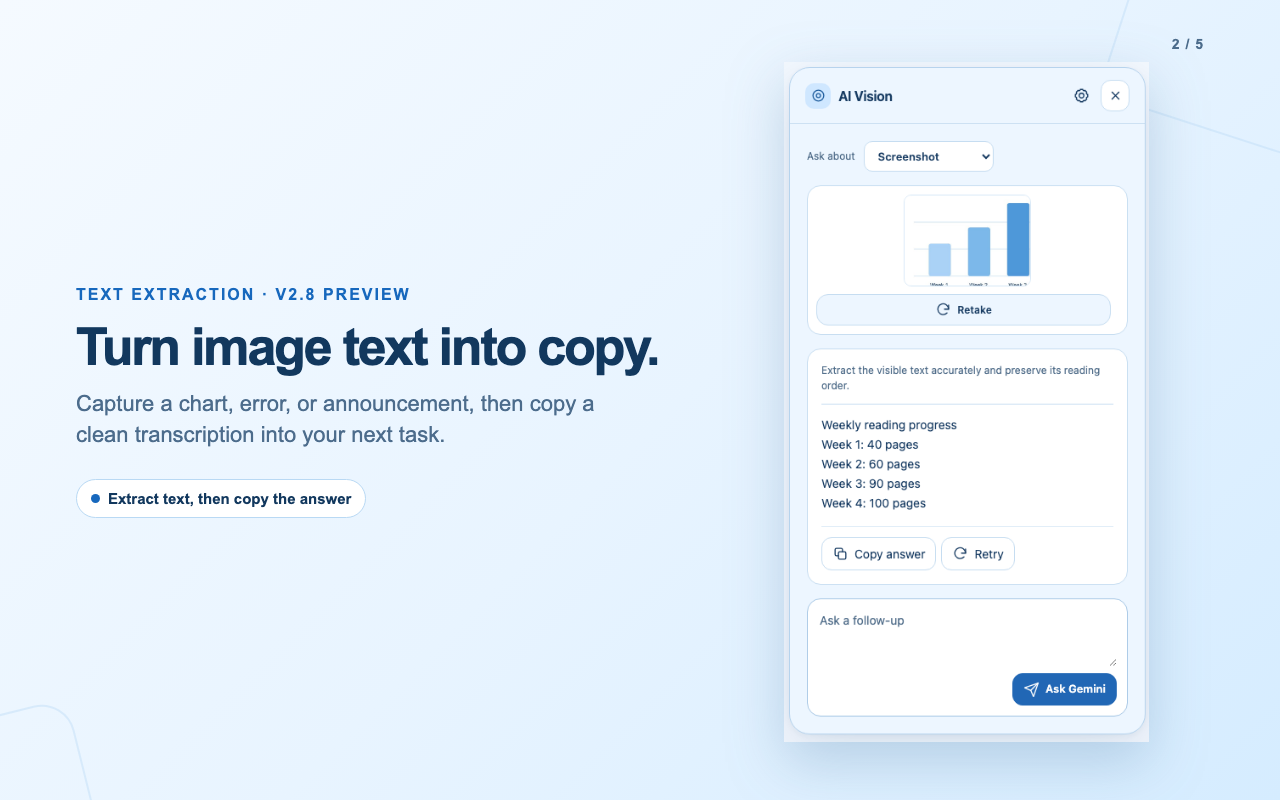
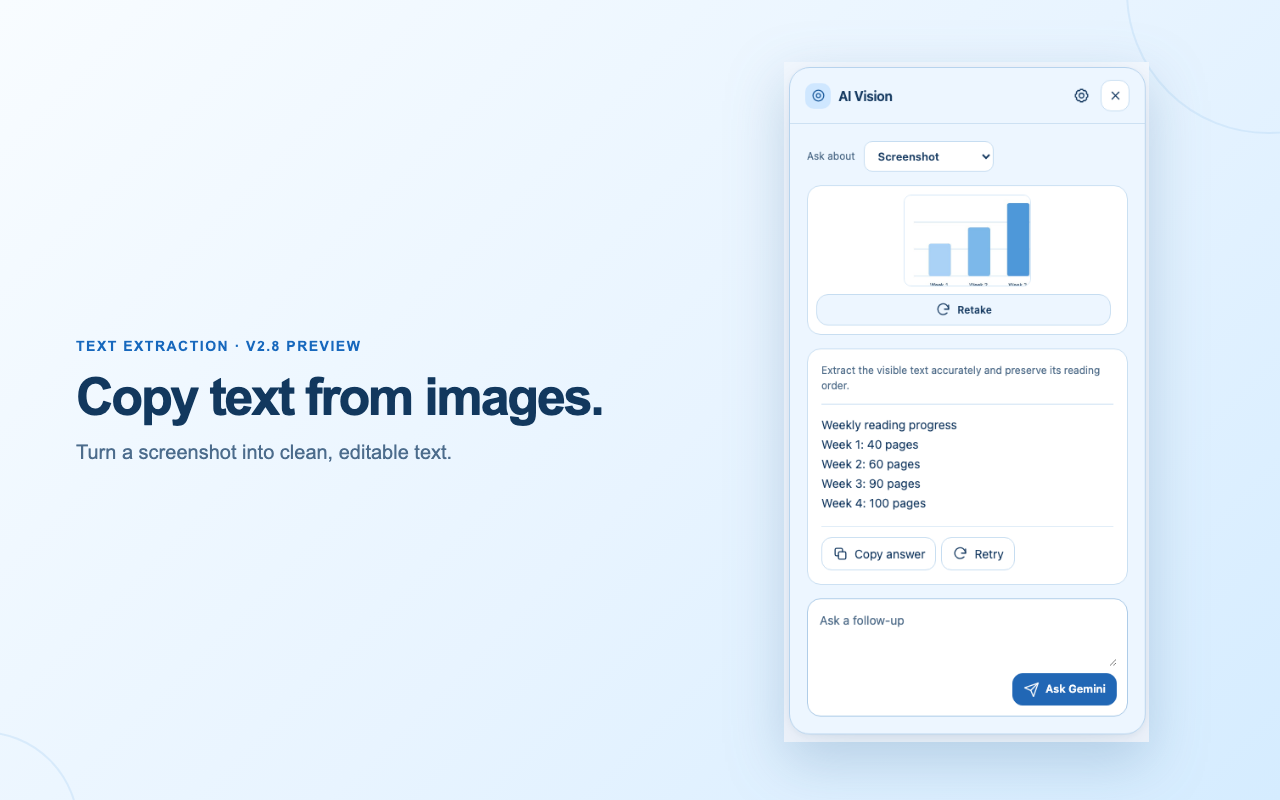
Refresh v2.8 visuals and Store SEO copy

Changed region(s): [[0.0625, 0.4062, 0.5312, 0.6562], [0.0625, 0.3438, 0.3125, 0.375], [0.9062, 0.0312, 0.9375, 0.0625]]

diff --git a/docs/index.html b/docs/index.html
@@ -4,7 +4,7 @@
   <meta charset="utf-8">
   <meta name="viewport" content="width=device-width, initial-scale=1">
   <title>AI Screenshot Assistant for Chrome | AI Vision</title>
-  <meta name="description" content="Explain screenshots, copy text from images, and ask follow-up questions without leaving Chrome. Uses Gemini with your own API key.">
+  <meta name="description" content="AI screenshot assistant for Chrome. Explain screenshots, extract text from images, and ask follow-up questions with your own Gemini API key.">
   <meta name="author" content="AI Vision project">
   <meta name="robots" content="index,follow,max-image-preview:large">
   <meta name="google-site-verification" content="YLyFwZK2cHcakG3nOrYRYw27DdFpeYfny3f_DKoIWP8">
@@ -14,7 +14,7 @@
   <meta property="og:type" content="website">
   <meta property="og:site_name" content="AI Vision">
   <meta property="og:title" content="AI Screenshot Assistant for Chrome | AI Vision">
-  <meta property="og:description" content="Explain screenshots, copy text from images, and ask follow-up questions in Chrome with your own Gemini API key.">
+  <meta property="og:description" content="AI screenshot assistant for Chrome. Explain screenshots, extract text from images, and ask follow-up questions with your own Gemini API key.">
   <meta property="og:url" content="https://stiwarilbj.github.io/AI_Vision/">
   <meta property="og:image" content="https://stiwarilbj.github.io/AI_Vision/assets/social-preview.png">
   <meta property="og:image:width" content="1200">
@@ -23,12 +23,12 @@
   <meta property="og:locale" content="en_US">
   <meta name="twitter:card" content="summary_large_image">
   <meta name="twitter:title" content="AI Screenshot Assistant for Chrome | AI Vision">
-  <meta name="twitter:description" content="Explain screenshots, copy text from images, and ask follow-up questions in Chrome with your own Gemini API key.">
+  <meta name="twitter:description" content="AI screenshot assistant for Chrome. Explain screenshots, extract text from images, and ask follow-up questions with your own Gemini API key.">
   <meta name="twitter:image" content="https://stiwarilbj.github.io/AI_Vision/assets/social-preview.png">
   <meta name="theme-color" content="#eef7ff">
   <script type="application/ld+json">
   {"@context":"https://schema.org","@graph":[
-    {"@type":"WebSite","@id":"https://stiwarilbj.github.io/AI_Vision/#website","name":"AI Vision","url":"https://stiwarilbj.github.io/AI_Vision/","description":"An AI screenshot assistant for Chrome that uses Gemini to explain screenshots, webpages, and supported tabs."},
+    {"@type":"WebSite","@id":"https://stiwarilbj.github.io/AI_Vision/#website","name":"AI Vision","url":"https://stiwarilbj.github.io/AI_Vision/","description":"An AI screenshot assistant for Chrome that uses Gemini to explain screenshots and extract text with a user-provided API key."},
     {"@type":"SoftwareApplication","@id":"https://stiwarilbj.github.io/AI_Vision/#software","name":"AI Vision for Chrome","description":"An AI screenshot assistant for explaining screenshots, extracting text, and asking Gemini follow-up questions with a user-provided API key.","url":"https://stiwarilbj.github.io/AI_Vision/","applicationCategory":"BrowserApplication","operatingSystem":"Google Chrome","softwareVersion":"2.5","releaseNotes":"The site also documents v2.8 GitHub-build previews while the public Chrome Web Store listing remains v2.5.","image":"https://stiwarilbj.github.io/AI_Vision/assets/social-preview.png","downloadUrl":"https://chromewebstore.google.com/detail/ai-vision-gemini-screensh/ghmmlbclopoakmjjbkkmoefjldgjimgk?authuser=0&hl=en","sameAs":"https://github.com/stiwarilbj/AI_Vision","isAccessibleForFree":true,"offers":{"@type":"Offer","price":"0","priceCurrency":"USD"},"featureList":["Explain a selected screenshot","Extract text from a screenshot","Summarize the current webpage","Compare supported Chrome tabs","Bring your own Gemini API key"]}
   ]}
   </script>
@@ -38,17 +38,17 @@
 <a class="skip-link" href="#main">Skip to content</a>
 <header class="site-header"><div class="wrap nav-row"><a class="brand" href="./"><img src="assets/store-icon.png" width="34" height="34" alt=""><span>AI Vision</span></a><nav class="nav-links" aria-label="Main navigation"><a href="#how-it-works">How it works</a><a href="guides/get-gemini-api-key.html">Get a key</a><a class="button button-small" href="https://chromewebstore.google.com/detail/ai-vision-gemini-screensh/ghmmlbclopoakmjjbkkmoefjldgjimgk?authuser=0&amp;hl=en">Add to Chrome</a></nav></div></header>
 <main id="main">
-  <section class="hero wrap" id="top" aria-labelledby="hero-title"><div class="hero-copy"><p class="eyebrow">AI SCREENSHOT ASSISTANT FOR CHROME · V2.8 PREVIEW</p><h1 id="hero-title">Your AI screenshot assistant for Chrome.</h1><p class="hero-lede">Explain screenshots, copy text from images, and ask follow-up questions without leaving Chrome. Uses Gemini with your own API key.</p><div class="hero-actions"><a class="button" href="https://chromewebstore.google.com/detail/ai-vision-gemini-screensh/ghmmlbclopoakmjjbkkmoefjldgjimgk?authuser=0&amp;hl=en">Add to Chrome <span aria-hidden="true">↗</span></a><a class="button button-secondary" href="#try-it">See it in action</a></div><p class="hero-note">Free extension · Gemini API key required · <a href="guides/get-gemini-api-key.html">Get your Gemini API key</a></p></div><figure class="hero-media"><a class="media-button" href="assets/previews/hero-showcase.png" data-lightbox="assets/previews/hero-showcase.png" aria-label="Enlarge the AI Vision screenshot-to-answer showcase"><picture><source media="(max-width:600px)" type="image/webp" srcset="assets/previews/extension-answer.webp"><source media="(max-width:600px)" type="image/png" srcset="assets/previews/extension-answer.png"><source type="image/webp" srcset="assets/previews/hero-showcase.webp"><source type="image/jpeg" srcset="assets/previews/hero-showcase.jpg"><source type="image/png" srcset="assets/previews/hero-showcase.png"><img src="assets/previews/hero-showcase.jpg" width="1120" height="620" fetchpriority="high" alt="AI Vision v2.8 preview showing a selected chart beside a clear Gemini answer and follow-up field"></picture></a><figcaption>v2.8 GitHub-build preview · The live Chrome Web Store listing currently shows v2.5. Controls may differ until the update is published. <a href="guides/ai-screenshot-assistant.html">See how screenshot explanations work →</a></figcaption></figure></section>
+  <section class="hero wrap" id="top" aria-labelledby="hero-title"><div class="hero-copy"><p class="eyebrow">AI SCREENSHOT ASSISTANT FOR CHROME · V2.8 PREVIEW</p><h1 id="hero-title">Your AI screenshot assistant for Chrome.</h1><p class="hero-lede">Explain screenshots, copy text from images, and ask follow-up questions in Chrome.</p><div class="hero-actions"><a class="button" href="https://chromewebstore.google.com/detail/ai-vision-gemini-screensh/ghmmlbclopoakmjjbkkmoefjldgjimgk?authuser=0&amp;hl=en">Add to Chrome <span aria-hidden="true">↗</span></a><a class="button button-secondary" href="#try-it">See it in action</a></div><p class="hero-note">Free extension · Your Gemini API key required · <a href="guides/get-gemini-api-key.html">Get your Gemini API key</a></p></div><figure class="hero-media"><a class="media-button" href="assets/previews/hero-showcase.png" data-lightbox="assets/previews/hero-showcase.png" aria-label="Enlarge the AI Vision screenshot-to-answer showcase"><picture><source media="(max-width:600px)" type="image/webp" srcset="assets/previews/extension-answer.webp"><source media="(max-width:600px)" type="image/png" srcset="assets/previews/extension-answer.png"><source type="image/webp" srcset="assets/previews/hero-showcase.webp"><source type="image/jpeg" srcset="assets/previews/hero-showcase.jpg"><source type="image/png" srcset="assets/previews/hero-showcase.png"><img src="assets/previews/hero-showcase.jpg" width="1120" height="620" fetchpriority="high" alt="AI Vision v2.8 preview showing a selected screenshot beside a readable Gemini answer and follow-up field"></picture></a><figcaption>v2.8 GitHub-build preview · The live Chrome Web Store listing currently shows v2.5. Controls may differ until the update is published. <a href="guides/ai-screenshot-assistant.html">See how screenshot explanations work →</a></figcaption></figure></section>
 
-  <section class="section section-white" id="try-it" aria-labelledby="try-title"><div class="wrap"><div class="section-heading"><h2 id="try-title">Select. Explain. Follow up.</h2><p>This interactive sample mirrors the default one-tap screenshot flow. It uses fictional content and an illustrative answer, so no key or API request is needed.</p></div><div class="demo-tabs" role="group" aria-label="Choose a sample workflow" hidden><button type="button" data-example="screenshot" aria-pressed="true">Screenshot</button><button type="button" data-example="page" aria-pressed="false">This page</button><button type="button" data-example="tabs" aria-pressed="false">Compare tabs</button></div>
+  <section class="section section-white" id="try-it" aria-labelledby="try-title"><div class="wrap"><div class="section-heading"><h2 id="try-title">Select. Explain. Follow up.</h2><p>Choose a sample to see how the screenshot assistant works. Each answer is fictional; the demo never sends an API request.</p></div><div class="demo-tabs" role="group" aria-label="Choose a sample workflow" hidden><button type="button" data-example="screenshot" aria-pressed="true">Screenshot</button><button type="button" data-example="page" aria-pressed="false">This page</button><button type="button" data-example="tabs" aria-pressed="false">Compare tabs</button></div>
     <article class="example" data-sample="screenshot"><div class="example-source"><p class="example-tag">Fictional screenshot · Reading club</p><h3>Pages read each week</h3><div class="sample-chart" role="img" aria-label="Week 1: 40 pages. Week 2: 60 pages. Week 3: 90 pages. Week 4: 100 pages."><span style="height:40%">40</span><span style="height:60%">60</span><span style="height:90%">90</span><span style="height:100%">100</span></div><div class="chart-labels" aria-hidden="true"><span>Week 1</span><span>Week 2</span><span>Week 3</span><span>Week 4</span></div></div><div class="example-answer"><p class="example-tag">One-tap explanation</p><blockquote>“Explain this screenshot.”</blockquote><p class="example-tag">Illustrative answer</p><p>Reading increased most from week 2 to week 3: from 60 to 90 pages, a gain of 30. Week 4 has the highest total, but the increase is smaller at 10 pages.</p><p class="example-follow-up">Follow up: “What would I need to know before calling this a trend?”</p><a class="text-link" href="guides/ai-screenshot-assistant.html">Learn to explain a screenshot →</a></div></article>
     <article class="example" data-sample="page"><div class="example-source"><p class="example-tag">Fictional article · Community library</p><h3>A quieter space after school</h3><p>The library is testing a quiet study hour from 4–5 pm on Tuesdays and Thursdays for six weeks. The ground floor stays open for conversation. Staff will collect visitor feedback before deciding whether to continue.</p></div><div class="example-answer"><p class="example-tag">You ask</p><blockquote>“What’s changing, and what’s still undecided?”</blockquote><p class="example-tag">Illustrative answer</p><p>Quiet study hours are being trialed twice a week for six weeks. The ground floor remains a social space. Whether the quiet hours become permanent depends on visitor feedback.</p><a class="text-link" href="guides/summarize-webpage-with-gemini.html">Learn to summarize a webpage →</a></div></article>
     <article class="example" data-sample="tabs"><div class="example-source"><p class="example-tag">Fictional product tabs</p><h3>Two bags. One decision.</h3><p><strong>Daylight 18:</strong> 18 L capacity, 600 g, padded laptop sleeve, no rain cover.</p><p><strong>Cloudpack 22:</strong> 22 L capacity, 850 g, rain cover included, laptop sleeve not specified.</p></div><div class="example-answer"><p class="example-tag">You ask</p><blockquote>“Which bag fits a light laptop commute?”</blockquote><p class="example-tag">Illustrative answer</p><p>Daylight 18 is 250 g lighter and explicitly includes a laptop sleeve. Cloudpack 22 adds 4 L of space and rain protection, but you’d need to verify laptop storage before choosing it.</p><a class="text-link" href="guides/compare-chrome-tabs-with-gemini.html">Learn to compare Chrome tabs →</a></div></article>
     <p class="sample-caption" id="sample-status" role="status">Fictional content and illustrative responses. No API call, key, or page access is used by this demo.</p><div class="sample-cta"><a class="button" href="https://chromewebstore.google.com/detail/ai-vision-gemini-screensh/ghmmlbclopoakmjjbkkmoefjldgjimgk?authuser=0&amp;hl=en">Try AI Vision free ↗</a><span>Gemini API key required · <a href="guides/get-gemini-api-key.html">Get set up first</a></span></div></div></section>
 
-  <section class="section" id="how-it-works" aria-labelledby="setup-title"><div class="wrap setup-layout"><div class="setup-lead"><h2 id="setup-title">Three small steps.<br>One clear answer.</h2><p>AI Vision is ready after a short Gemini key setup. You do not need an AI Vision account.</p><a class="text-link" href="guides/get-gemini-api-key.html">Follow the key setup guide →</a></div><ol class="setup-list"><li><h3>Add AI Vision to Chrome</h3><p>Install from the <a href="https://chromewebstore.google.com/detail/ai-vision-gemini-screensh/ghmmlbclopoakmjjbkkmoefjldgjimgk?authuser=0&amp;hl=en">Chrome Web Store</a>, then pin it from Chrome’s Extensions menu if you want it close at hand.</p></li><li><h3>Get and save your Gemini key</h3><p>In Google AI Studio, copy an existing key or choose <strong>Create API key</strong>. Open AI Vision Settings, paste the key, and choose Save &amp; check key.</p><a class="button button-secondary" href="https://aistudio.google.com/app/apikey" target="_blank" rel="noreferrer">Open Google AI Studio ↗</a></li><li><h3>Select an area and explain it</h3><p>Choose Screenshot, drag around the detail that matters, and press <strong>Explain screenshot</strong>. The optional automatic setting can send future screenshots immediately. Google controls API limits and any charges.</p></li></ol></div></section>
+  <section class="section" id="how-it-works" aria-labelledby="setup-title"><div class="wrap setup-layout"><div class="setup-lead"><h2 id="setup-title">Three steps to your first answer.</h2><p>Install AI Vision, save your Gemini key, and start with the screenshot in front of you.</p><a class="text-link" href="guides/get-gemini-api-key.html">Get your Gemini API key →</a></div><ol class="setup-list"><li><h3>Add AI Vision to Chrome</h3><p>Install from the <a href="https://chromewebstore.google.com/detail/ai-vision-gemini-screensh/ghmmlbclopoakmjjbkkmoefjldgjimgk?authuser=0&amp;hl=en">Chrome Web Store</a>.</p></li><li><h3>Get and save your Gemini key</h3><p>In Google AI Studio, create a key, paste it into Settings, and choose <strong>Save &amp; check key</strong>.</p><a class="button button-secondary" href="https://aistudio.google.com/app/apikey" target="_blank" rel="noreferrer">Open Google AI Studio ↗</a></li><li><h3>Select and explain</h3><p>Choose Screenshot, drag around the detail that matters, and press <strong>Explain screenshot</strong>. Google controls Gemini limits and pricing.</p></li></ol></div></section>
 
-  <section class="section section-white" id="guides" aria-labelledby="guides-title"><div class="wrap"><div class="section-heading"><h2 id="guides-title">Use the right context for the question.</h2><p>Start with a screenshot for a visual detail. Switch to a page or a group of tabs when the answer needs more context.</p></div><div class="guide-cards"><article class="guide-card"><h3>Explain what you see</h3><p>Charts, diagrams, text in images, and unfamiliar errors.</p><a class="text-link" href="guides/ai-screenshot-assistant.html">Screenshot guide →</a><a class="text-link" href="guides/copy-text-from-screenshot-chrome.html">Copy text from a screenshot →</a></article><article class="guide-card"><h3>Find the key points</h3><p>Turn a readable article into a summary you can check.</p><a class="text-link" href="guides/summarize-webpage-with-gemini.html">Webpage guide →</a></article><article class="guide-card"><h3>Compare the details</h3><p>Bring related sources together without losing their differences.</p><a class="text-link" href="guides/compare-chrome-tabs-with-gemini.html">Tab comparison guide →</a></article></div></div></section>
+  <section class="section section-white" id="guides" aria-labelledby="guides-title"><div class="wrap"><div class="section-heading"><h2 id="guides-title">Choose the context you need.</h2><p>Use a screenshot for a visual detail, a page for its key points, or tabs for a side-by-side comparison.</p></div><div class="guide-cards"><article class="guide-card"><h3>Explain or extract</h3><p>Understand charts, diagrams, errors, and text inside images.</p><a class="text-link" href="guides/ai-screenshot-assistant.html">Screenshot guide →</a><a class="text-link" href="guides/copy-text-from-screenshot-chrome.html">Copy text guide →</a></article><article class="guide-card"><h3>Summarize a page</h3><p>Turn a readable article into a summary you can check.</p><a class="text-link" href="guides/summarize-webpage-with-gemini.html">Webpage guide →</a></article><article class="guide-card"><h3>Compare tabs</h3><p>Bring related sources together and keep their differences visible.</p><a class="text-link" href="guides/compare-chrome-tabs-with-gemini.html">Tab comparison guide →</a></article></div></div></section>
 
   <section class="section" id="faq" aria-labelledby="faq-title"><div class="wrap faq-layout"><div><h2 id="faq-title">Simple to use.<br>Clear about the details.</h2><p class="privacy-note" id="privacy">Your key stays in Chrome. Requests go directly to Google. Optional browser tasks keep their approval and Stop controls.</p><a class="text-link" href="privacy.html">Read the privacy notice →</a></div><div class="faq-list"><details><summary>Do I need a Gemini API key?</summary><p>Yes. AI Vision uses your own key from Google AI Studio. Save it in the extension’s Settings. The website never asks you to paste a key.</p></details><details><summary>Is AI Vision free?</summary><p>The extension is free to install. Google controls Gemini API pricing, model availability, and usage limits. Check the limits and billing for your project in Google AI Studio.</p></details><details><summary>What gets sent to Google?</summary><p>Your question and the screenshot or page context needed for the request go directly to the Gemini API. Your key stays in Chrome’s local extension storage and is sent to Google to authenticate requests. There is no developer proxy or analytics.</p></details><details><summary>Does it work on every page?</summary><p>AI Vision works on supported webpages. Chrome internal pages, the Chrome Web Store, and other restricted pages cannot be analyzed. Compare tabs needs optional permission and reads up to 20 supported tabs in the current window.</p></details></div></div></section>
   <section class="wrap final-cta"><div><h2>Start with the screenshot in front of you.</h2><p>Install AI Vision, save your Gemini key, and get a clear answer with a follow-up ready.</p></div><a class="button" href="https://chromewebstore.google.com/detail/ai-vision-gemini-screensh/ghmmlbclopoakmjjbkkmoefjldgjimgk?authuser=0&amp;hl=en">Add to Chrome ↗</a></section>

diff --git a/tests/manual/store-artwork.html b/tests/manual/store-artwork.html
@@ -9,22 +9,18 @@
     * { box-sizing:border-box; }
     html,body { margin:0; width:100%; height:100%; overflow:hidden; }
     body { background:var(--baby); color:var(--navy); }
-    .art { width:100vw; height:100vh; min-width:440px; min-height:280px; position:relative; overflow:hidden; padding:62px 76px; background:linear-gradient(135deg,#f5faff 0%,var(--baby) 52%,#d5ecff 100%); }
-    .art::before,.art::after { content:""; position:absolute; border:2px solid #b9d9f466; border-radius:34px; transform:rotate(18deg); pointer-events:none; }
-    .art::before { width:220px; height:220px; right:-70px; top:-90px; }
-    .art::after { width:170px; height:170px; left:-84px; bottom:-90px; transform:rotate(-14deg); }
-    .kicker { font-size:16px; letter-spacing:2px; font-weight:700; color:var(--blue); text-transform:uppercase; }
+    .art { width:100vw; height:100vh; min-width:440px; min-height:280px; position:relative; overflow:hidden; padding:62px 76px; background:linear-gradient(135deg,#f8fcff 0%,var(--baby) 54%,#d5ecff 100%); }
+    .art::before { content:""; position:absolute; width:280px; height:280px; right:-130px; top:-150px; border:2px solid #b9d9f466; border-radius:50%; pointer-events:none; }
+    .art::after { content:""; position:absolute; width:190px; height:190px; left:-115px; bottom:-125px; border:2px solid #b9d9f466; border-radius:50%; pointer-events:none; }
+    .kicker { font-size:14px; letter-spacing:1.5px; font-weight:700; color:var(--blue); text-transform:uppercase; }
     h1 { margin:16px 0 14px; max-width:610px; font-size:52px; line-height:1.05; letter-spacing:-2.2px; }
-    .sub { margin:0; max-width:530px; color:var(--muted); font-size:22px; line-height:1.4; }
+    .sub { margin:0; max-width:530px; color:var(--muted); font-size:20px; line-height:1.4; }
     .split { display:grid; grid-template-columns:minmax(0,1fr) 475px; align-items:center; gap:54px; height:100%; position:relative; z-index:1; }
     .copy { align-self:center; }
-    .badge { display:inline-flex; margin-top:28px; align-items:center; gap:8px; padding:10px 14px; border:1px solid var(--line); border-radius:999px; background:#fff; color:var(--navy); font-size:15px; font-weight:700; }
-    .badge span { width:9px; height:9px; border-radius:50%; background:var(--blue); }
     .capture { width:475px; max-height:680px; object-fit:contain; object-position:center; filter:drop-shadow(0 20px 28px #3a6c9740); }
-    .slide-number { position:absolute; right:76px; top:36px; color:var(--muted); font-size:14px; font-weight:700; letter-spacing:1px; }
-    .hero-art { padding:48px 58px; }
-    .hero-art .split { grid-template-columns:minmax(0,1fr) minmax(280px,360px) minmax(260px,340px); gap:22px; }
-    .hero-art h1 { font-size:44px; max-width:520px; }
+    .slide-number { display:none; }
+    .hero-art { padding:36px 42px; }
+    .hero-art .split { grid-template-columns:minmax(260px,360px) minmax(320px,1fr); gap:34px; }
     .source-card { width:100%; padding:28px; background:#fff; border:1px solid var(--line); border-radius:24px; box-shadow:0 16px 30px #3a6c971c; }
     .source-card h2 { margin:10px 0 24px; font-size:27px; letter-spacing:-1px; }
     .chart { height:200px; display:flex; align-items:end; gap:18px; padding:20px 14px 0; border-bottom:2px solid #c6def2; background:repeating-linear-gradient(to top,transparent 0 43px,#d8e9f640 44px); }
@@ -32,12 +28,12 @@
     .bar b { position:absolute; top:-24px; left:0; right:0; text-align:center; font-size:14px; color:var(--navy); }
     .labels { display:flex; gap:18px; padding:9px 14px 0; color:var(--muted); font-size:12px; }
     .labels span { flex:1; text-align:center; }
-    .hero-art .capture { width:100%; max-height:520px; align-self:center; }
-    .hero-art .kicker { font-size:13px; }
-    .hero-art .sub { font-size:18px; }
-    .small-art{padding:28px 26px}.small-art .split{grid-template-columns:minmax(0,1fr) 145px;gap:14px}.small-art h1{font-size:29px;max-width:250px;margin:10px 0}.small-art .sub{font-size:15px;max-width:210px}.small-art .kicker{font-size:11px;letter-spacing:1.3px}.small-art .badge{font-size:11px;padding:7px 10px;margin-top:14px}.small-art .capture{width:145px;max-height:220px;align-self:end}.small-art .slide-number{display:none}
-    @media(max-width:800px){ .art{padding:40px 34px}.split{grid-template-columns:1fr;gap:24px}.capture{width:min(430px,100%);justify-self:center;max-height:480px}h1{font-size:42px}.sub{font-size:19px}.slide-number{right:34px}.hero-art .split{grid-template-columns:1fr}.hero-art .capture{width:min(360px,100%);justify-self:center} }
-    @media(max-width:600px){ .art{min-width:0;padding:28px}.kicker{font-size:12px}.art h1{font-size:34px}.sub{font-size:16px}.badge{margin-top:18px;font-size:12px}.slide-number{right:28px;top:18px}.source-card{padding:20px}.source-card h2{font-size:22px}.chart{height:150px}.hero-art{padding:24px}.hero-art h1{font-size:30px} }
+    .hero-art .capture { width:100%; max-height:540px; align-self:center; }
+    .hero-art .kicker { font-size:12px; }
+    .hero-art .source-card::after { content:"Selected screenshot → answer"; display:block; margin-top:20px; color:var(--muted); font-size:13px; font-weight:650; }
+    .small-art{padding:28px 26px}.small-art .split{grid-template-columns:minmax(0,1fr) 145px;gap:14px}.small-art h1{font-size:29px;max-width:250px;margin:10px 0}.small-art .sub{font-size:15px;max-width:210px}.small-art .kicker{font-size:11px;letter-spacing:1.3px}.small-art .capture{width:145px;max-height:220px;align-self:end}
+    @media(max-width:800px){ .art{padding:40px 34px}.split{grid-template-columns:1fr;gap:24px}.capture{width:min(430px,100%);justify-self:center;max-height:480px}h1{font-size:42px}.sub{font-size:19px}.hero-art .split{grid-template-columns:1fr}.hero-art .capture{width:min(360px,100%);justify-self:center} }
+    @media(max-width:600px){ .art{min-width:0;padding:28px}.kicker{font-size:12px}.art h1{font-size:34px}.sub{font-size:16px}.source-card{padding:20px}.source-card h2{font-size:22px}.chart{height:150px}.hero-art{padding:24px}.hero-art .source-card::after{margin-top:14px;font-size:11px} }
   </style>
 </head>
 <body>
@@ -45,18 +41,18 @@
   <script>
     const q = new URLSearchParams(location.search); const slide = q.get('slide') || '1'; const kind = q.get('kind') || 'store';
     const content = {
-      '1': {k:'SCREENSHOT EXPLANATION · V2.8 PREVIEW', h:'Explain what you see.', s:'Select a detail. Get the point. Ask a follow-up while the screenshot stays in context.', img:'../../docs/assets/previews/extension-answer.png', badge:'Explain a screenshot in one tap'},
-      '2': {k:'TEXT EXTRACTION · V2.8 PREVIEW', h:'Turn image text into copy.', s:'Capture a chart, error, or announcement, then copy a clean transcription into your next task.', img:'../../docs/assets/previews/extension-text-extraction.png', badge:'Extract text, then copy the answer'},
-      '3': {k:'WEBPAGE SUMMARY · V2.8 PREVIEW', h:'Find the point of a page.', s:'Ask Gemini for a useful summary without leaving the article or losing your place in Chrome.', img:'../../docs/assets/previews/extension-page.png', badge:'Summarize a readable webpage'},
-      '4': {k:'TAB COMPARISON · V2.8 PREVIEW', h:'Compare tabs with context.', s:'Bring related product pages or sources together and ask for the differences that matter.', img:'../../docs/assets/previews/extension-tabs.png', badge:'Compare supported Chrome tabs'},
-      '5': {k:'QUICK SETUP · V2.8 PREVIEW', h:'Ready after one key.', s:'Create a Gemini API key, save it in Settings, and start with the screenshot in front of you.', img:'../../docs/assets/previews/extension-setup.png', badge:'Save your key and start capturing'}
+      '1': {k:'SCREENSHOT EXPLANATION · V2.8 PREVIEW', h:'Understand your screenshot.', s:'Select a detail, get a clear answer, and ask a follow-up.', img:'../../docs/assets/previews/extension-answer.png'},
+      '2': {k:'TEXT EXTRACTION · V2.8 PREVIEW', h:'Copy text from images.', s:'Turn a screenshot into clean, editable text.', img:'../../docs/assets/previews/extension-text-extraction.png'},
+      '3': {k:'WEBPAGE SUMMARY · V2.8 PREVIEW', h:'Summarize a webpage.', s:'Find the useful points without leaving Chrome.', img:'../../docs/assets/previews/extension-page.png'},
+      '4': {k:'TAB COMPARISON · V2.8 PREVIEW', h:'Compare two tabs.', s:'Ask for the differences that matter.', img:'../../docs/assets/previews/extension-tabs.png'},
+      '5': {k:'QUICK SETUP · V2.8 PREVIEW', h:'Add your Gemini key.', s:'Save your key once, then start with a screenshot.', img:'../../docs/assets/previews/extension-setup.png'}
     };
     const c = content[slide] || content['1']; const root = document.querySelector('#art');
-    if (kind === 'small') { root.classList.add('small-art'); root.innerHTML = `<div class="split"><div class="copy"><div class="kicker">AI VISION · CHROME</div><h1>Explain any screenshot.</h1><p class="sub">Select, ask Gemini, and keep moving.</p><div class="badge"><span></span>Free to install</div></div><img class="capture" src="../../docs/assets/previews/extension-answer.png" alt="AI Vision answer interface"></div>`; }
+    if (kind === 'small') { root.classList.add('small-art'); root.innerHTML = `<div class="split"><div class="copy"><div class="kicker">AI VISION · CHROME</div><h1>Understand your screenshot.</h1><p class="sub">Select, ask Gemini, and keep moving.</p></div><img class="capture" src="../../docs/assets/previews/extension-answer.png" alt="AI Vision answer interface"></div>`; }
     else if (kind === 'hero') {
-      root.classList.add('hero-art'); root.innerHTML = `<div class="split"><div class="copy"><div class="kicker">AI SCREENSHOT ASSISTANT FOR CHROME · V2.8 PREVIEW</div><h1>One screenshot.<br>One clear answer.</h1><p class="sub">Select a detail, ask Gemini to explain it, and keep a follow-up ready in Chrome.</p><div class="badge"><span></span>Authentic extension interface · Store update pending review</div></div><div class="source-card"><div class="kicker">FICTIONAL SOURCE · READING CLUB</div><h2>Weekly reading progress</h2><div class="chart"><div class="bar" style="height:40%"><b>40</b></div><div class="bar" style="height:60%"><b>60</b></div><div class="bar" style="height:90%"><b>90</b></div><div class="bar" style="height:100%"><b>100</b></div></div><div class="labels"><span>Week 1</span><span>Week 2</span><span>Week 3</span><span>Week 4</span></div></div><img class="capture" src="../../docs/assets/previews/extension-answer.png" alt="AI Vision answer interface"></div>`;
+      root.classList.add('hero-art'); root.innerHTML = `<div class="split"><div class="source-card"><div class="kicker">FICTIONAL SCREENSHOT</div><h2>Weekly reading progress</h2><div class="chart"><div class="bar" style="height:40%"><b>40</b></div><div class="bar" style="height:60%"><b>60</b></div><div class="bar" style="height:90%"><b>90</b></div><div class="bar" style="height:100%"><b>100</b></div></div><div class="labels"><span>Week 1</span><span>Week 2</span><span>Week 3</span><span>Week 4</span></div></div><img class="capture" src="../../docs/assets/previews/extension-answer.png" alt="AI Vision answer interface"></div>`;
     } else {
-      root.innerHTML = `<div class="slide-number">${slide} / 5</div><div class="split"><div class="copy"><div class="kicker">${c.k}</div><h1>${c.h}</h1><p class="sub">${c.s}</p><div class="badge"><span></span>${c.badge}</div></div><img class="capture" src="${c.img}" alt="Authentic AI Vision extension interface preview"></div>`;
+      root.innerHTML = `<div class="split"><div class="copy"><div class="kicker">${c.k}</div><h1>${c.h}</h1><p class="sub">${c.s}</p></div><img class="capture" src="${c.img}" alt="Authentic AI Vision extension interface preview"></div>`;
     }
   </script>
 </body>

diff --git a/STORE_LISTING.md b/STORE_LISTING.md
@@ -8,7 +8,7 @@ AI Vision: AI Screenshot Assistant
 
 ## Summary from package
 
-Explain screenshots, copy text from images, summarize webpages, and compare tabs in Chrome with your own Gemini API key.
+Explain screenshots, copy text from images, and ask follow-up questions in Chrome with your own Gemini API key.
 
 ## Category
 
@@ -16,47 +16,28 @@ Workflow & Planning
 
 ## Detailed description
 
-Turn one screenshot into a clear answer without leaving Chrome.
+AI Vision is an AI screenshot assistant for Chrome. Select part of a chart, image, error, or document, ask Gemini to explain it, and ask a follow-up while the screenshot stays in context.
 
-AI Vision is an AI screenshot assistant for Chrome. Select part of a chart, image, error, or document, ask Gemini to explain it, and ask a follow-up while the screenshot stays in context. It also extracts text from images, summarizes readable webpages, and compares useful details across supported tabs.
+Use it to:
 
-Use AI Vision to:
+- Understand screenshots, charts, diagrams, interfaces, and error messages
+- Copy text from images into a document, search box, or message
+- Summarize a readable webpage without leaving Chrome
+- Compare useful details across supported tabs
 
-- Explain screenshots, charts, diagrams, interfaces, and error messages in plain language
-- Extract text from images, then copy the answer into a document or message
-- Summarize articles, product pages, documents, and research
-- Compare claims, prices, requirements, or limitations across open tabs
-- Follow up directly beneath an answer, with Copy answer and Retry as secondary actions
+Open AI Vision from the toolbar, right-click menu, or **Alt + Shift + V**. The main flow is simple: select an area, explain it, and follow up.
 
-For everyday productivity, AI Vision can:
-
-- Open from the toolbar, the right-click menu, or **Alt + Shift + V**
-
-### Optional Browser tasks (Beta)
-
-Enable Browser tasks when you want a bounded browser workflow instead of an explanation. Screenshot and This page stay in the source tab. Compare tabs can search, switch, navigate, click, type, or scroll only inside the starting Chrome window.
-
-Reading, waiting, and scrolling can proceed automatically. Clicks, text entry, navigation, new tabs, history movement, and reloads pause for your approval. Passwords, credentials, payments, purchases, deletions, uploads, posts, sign-ins, permission changes, legal acceptance, and other sensitive actions are permanently blocked. Every task stops after 12 steps so you can review what happened.
-
-Browser tasks are optional. Approval prompts and a visible Stop action protect clicks, typing, navigation, and other supported actions. Sensitive actions are blocked and every task stops after 12 steps so you can review what happened.
-
-### Get started in three steps
+### Get started
 
 1. Install AI Vision from the Chrome Web Store.
-2. Create a Gemini API key at [Google AI Studio](https://aistudio.google.com/app/apikey), open Settings, and press **Save & check key**.
-3. Open a page, press **Alt + Shift + V**, choose Screenshot, select an area, and press **Explain screenshot**.
+2. Create a Gemini API key at [Google AI Studio](https://aistudio.google.com/app/apikey), open Settings, and choose **Save & check key**.
+3. Choose Screenshot, select an area, and press **Explain screenshot**. Use **More actions** for **Extract text** or Summarize.
 
-Your key stays in Chrome's local extension storage. Requests go directly to Google's Gemini API. Google controls API availability, model access, free-tier limits, and pricing. Compare tabs asks for its optional permission only when you choose that mode.
+Browser tasks (Beta) are optional. They use clear approval prompts and a visible Stop action for supported clicks, typing, navigation, and scrolling.
 
-### Privacy and control
+Your key and preferences stay in Chrome's local extension storage. Prompts and the screenshot or page context needed for a request go directly to Google's Gemini API over HTTPS. Google controls model access, API limits, and pricing. Restricted Chrome pages cannot be analyzed. See the linked privacy notice for complete details.
 
-AI Vision runs when you open it or start a task. Your Gemini API key and preferences stay in local Chrome extension storage; the visible panel receives only masked key status. Prompts and the screenshot or page context needed for a request go directly to Google's Gemini API over HTTPS.
-
-There is no developer-operated analytics, advertising, tracking, or proxy server. Chrome internal pages, the Chrome Web Store, and other restricted pages cannot be analyzed. See the linked privacy notice for the complete data-handling details.
-
-The source is publicly available at [github.com/stiwarilbj/AI_Vision](https://github.com/stiwarilbj/AI_Vision). If AI Vision saves you time, an honest Chrome Web Store rating helps other people find it. Ratings are never required or rewarded.
-
-AI Vision is an independent project and is not affiliated with or endorsed by Google. Gemini and Chrome are trademarks of Google LLC.
+AI Vision is free to install, independent, and not affiliated with Google. The source is available at [github.com/stiwarilbj/AI_Vision](https://github.com/stiwarilbj/AI_Vision).
 
 ## Privacy form
 
